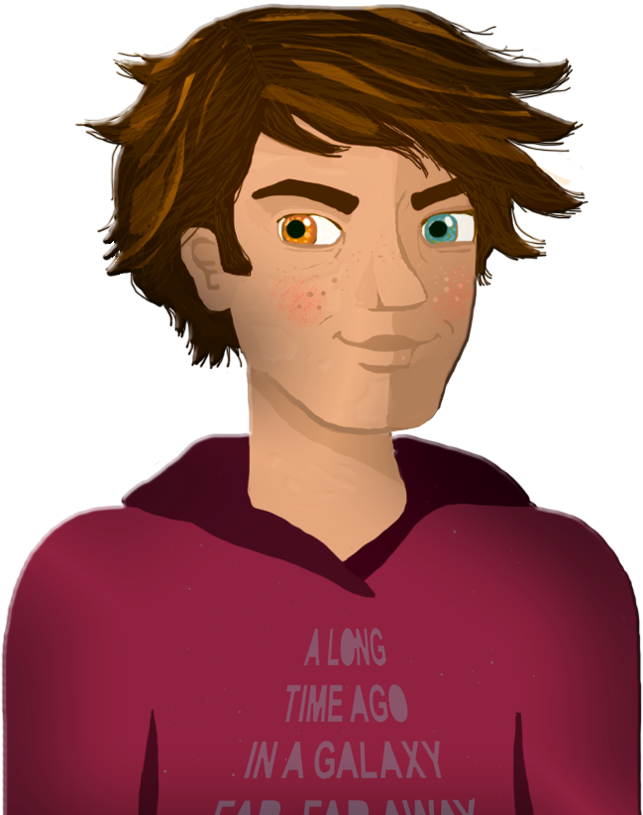
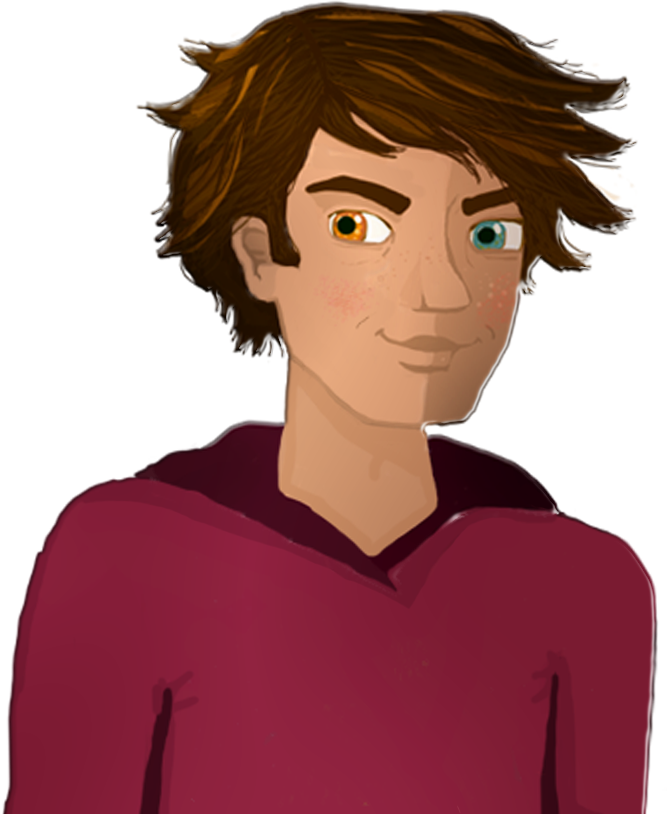
added new images for main menu

diff --git a/core/src/org/scify/moonwalker/app/game/scenarios/MoonWalkerScenario.java b/core/src/org/scify/moonwalker/app/game/scenarios/MoonWalkerScenario.java
@@ -18,7 +18,7 @@ public class MoonWalkerScenario extends Scenario {
     private static final String NEXT_LOCATION = "NEXT_LOCATION";
 
     public MoonWalkerScenario() {
-        if (false) {
+        if (true) {
             createBasicScenario();
         }
         else {
@@ -88,7 +88,7 @@ public class MoonWalkerScenario extends Scenario {
         Episode cockpit = new CockpitEpisode();
         //setFirstEpisode(cockpit);
         addEpisodeAfter(forest, cockpit);
-        return cockpit;
+        return mainMenu;
     }
 
     protected Episode createTestingScenario() {
